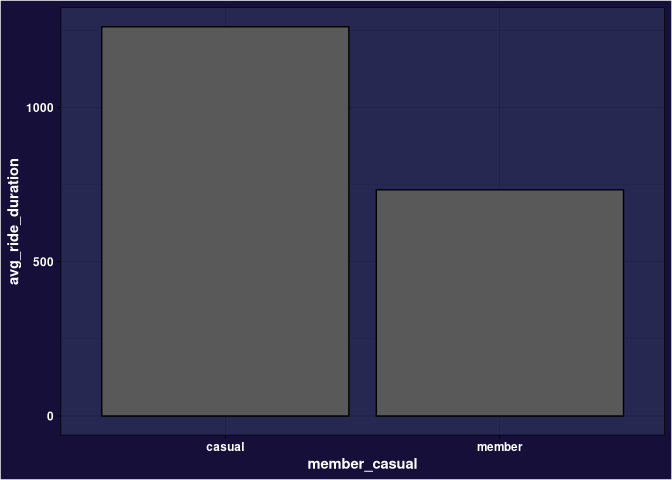
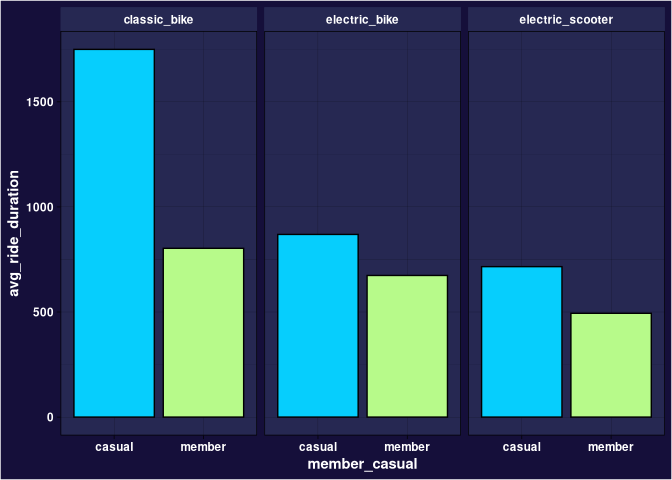
add scales to dependencies, and updare first analisys grpahs

diff --git a/README.md b/README.md
@@ -31,6 +31,7 @@ library(sf)
 library(jsonlite)
 library(geosphere)
 library(furrr)
+library(scales)
 ```
 
 Loading data from source, if not it is available locally.
@@ -303,14 +304,14 @@ stations |>
   kable()
 ```
 
-| station_id                           |      lat |       lon | name                         | capacity | short_name   | region_id | address |
-|:-------------------------------------|---------:|----------:|:-----------------------------|---------:|:-------------|:----------|:--------|
-| 1955905507044284968                  | 41.92227 | -87.80202 | Nordica Ave & Medill Ave     |       15 | 21378        | NA        | NA      |
-| 1934289361049585738                  | 41.82810 | -87.69468 | California Ave & 36th St     |       15 | 21338        | NA        | NA      |
-| a3b0fae6-a135-11e9-9cda-0a87ae2ba916 | 42.01270 | -87.66606 | Glenwood Ave & Touhy Ave     |       15 | 525          | NA        | NA      |
-| a3ad4d1b-a135-11e9-9cda-0a87ae2ba916 | 41.81409 | -87.59701 | Woodlawn Ave & Lake Park Ave |       15 | KA1503000065 | NA        | NA      |
-| a3acdae2-a135-11e9-9cda-0a87ae2ba916 | 41.78008 | -87.62975 | Wentworth Ave & 63rd St      |       11 | KA1503000025 | NA        | NA      |
-| a3a9f76a-a135-11e9-9cda-0a87ae2ba916 | 41.92153 | -87.70732 | Kedzie Ave & Palmer Ct       |       15 | 13292        | NA        | NA      |
+|      lat | name                       | short_name | station_id                           | capacity |       lon | region_id | address |
+|---------:|:---------------------------|:-----------|:-------------------------------------|---------:|----------:|:----------|:--------|
+| 41.96861 | Milwaukee Ave & Ainslie St | 24370      | 1969221526359528022                  |       19 | -87.76108 | NA        | NA      |
+| 41.79375 | Mozart St & 55th St        | 24267      | 1966307477149012058                  |       11 | -87.69472 | NA        | NA      |
+| 41.81574 | Western Ave & 43rd St      | 24245      | 1943244109954931024                  |       15 | -87.68489 | NA        | NA      |
+| 41.93852 | Nagle Ave & Belmont Ave    | 24324      | 1981488728284770592                  |       16 | -87.78735 | NA        | NA      |
+| 41.74656 | Stony Island Ave & 82nd St | 583        | a3b29fae-a135-11e9-9cda-0a87ae2ba916 |       11 | -87.58601 | NA        | NA      |
+| 41.99008 | Kedvale Ave & Peterson Ave | 24159      | 1929967657204564894                  |       15 | -87.73171 | NA        | NA      |
 
 ``` r
 stations |>
@@ -321,14 +322,14 @@ stations |>
 
 | Value      | NA’s |
 |:-----------|-----:|
-| station_id |    0 |
 | lat        |    0 |
-| lon        |    0 |
 | name       |    0 |
-| capacity   |    0 |
-| ios        |    0 |
 | android    |    0 |
+| ios        |    0 |
 | short_name |  872 |
+| station_id |    0 |
+| capacity   |    0 |
+| lon        |    0 |
 | region_id  | 1787 |
 | address    |  929 |
 
@@ -385,8 +386,8 @@ stations |>
 | a3a3a282-a135-11e9-9cda-0a87ae2ba916 | TA1306000014 | Wilton Ave & Diversey Pkwy        | -87.65270 | 41.93242 |
 | d53ae727-5265-4b8e-a6ca-2a36dc0345c4 | chargingstx2 | Wilton Ave & Diversey Pkwy\*      | -87.65270 | 41.93242 |
 | 1827484051430132402                  | NA           | Public Rack - Forest Glen Station | -87.75552 | 41.97871 |
-| 1715823821144840768                  | NA           | Public Rack - Laflin St &51st ST  | -87.66208 | 41.80135 |
 | 1677249871073777806                  | NA           | Public Rack - Laflin St & 51st St | -87.66208 | 41.80135 |
+| 1715823821144840768                  | NA           | Public Rack - Laflin St &51st ST  | -87.66208 | 41.80135 |
 | 1827474404723843690                  | NA           | Public Rack - Peterson Park       | -87.75552 | 41.97871 |
 
 Stations with repeated coordinates
@@ -401,12 +402,12 @@ stations |>
 
 | station_id          | short_name | name                   |       lon |      lat |
 |:--------------------|:-----------|:-----------------------|----------:|---------:|
-| 1978857650118994914 | 24409      | Indiana Ave & 133rd St | -87.61719 | 41.65380 |
 | 1967727360320698512 | 24211      | Western Ave & Lake St  | -87.68668 | 41.88481 |
+| 1978857650118994914 | 24409      | Indiana Ave & 133rd St | -87.61719 | 41.65380 |
 | 1984042930424753006 | 24394      | Steelworkers Park      | -87.53091 | 41.73793 |
-| 1448642188027369086 | NA         | Indiana Ave & 133rd St | -87.61705 | 41.65356 |
-| 1594046379513303720 | NA         | Western Ave & Lake St  | -87.68585 | 41.88461 |
 | 1448642188027369090 | NA         | Steelworkers Park      | -87.53107 | 41.73825 |
+| 1594046379513303720 | NA         | Western Ave & Lake St  | -87.68585 | 41.88461 |
+| 1448642188027369086 | NA         | Indiana Ave & 133rd St | -87.61705 | 41.65356 |
 
 Stations with repeated name
 
@@ -501,56 +502,94 @@ df <- df |>
       "Public Rack - Peterson Park", end_station_name
     )
   ) |>
-  mutate(ride_duration = as.integer(ended_at - started_at))
+  mutate(ride_duration = as.integer(ended_at - started_at)) |>
+  filter(ride_duration > 0) |>
+  mutate(station_fee = is.na(end_station_name))
 
 df |>
   head() |>
   kable()
 ```
 
-| ride_id          | rideable_type | started_at          | ended_at            | start_station_name                   | end_station_name            | member_casual | start_station_id                     | start_lon | start_lat | end_station_id                       |   end_lon |  end_lat | ride_duration |
-|:-----------------|:--------------|:--------------------|:--------------------|:-------------------------------------|:----------------------------|:--------------|:-------------------------------------|----------:|----------:|:-------------------------------------|----------:|---------:|--------------:|
-| 4449097279F8BBE7 | classic_bike  | 2023-10-08 10:36:26 | 2023-10-08 10:49:19 | Orleans St & Chestnut St (NEXT Apts) | Sheffield Ave & Webster Ave | member        | a3b35e21-a135-11e9-9cda-0a87ae2ba916 | -87.63754 |  41.89820 | a3aabad8-a135-11e9-9cda-0a87ae2ba916 | -87.65382 | 41.92154 |           773 |
-| 9CF060543CA7B439 | electric_bike | 2023-10-11 17:23:59 | 2023-10-11 17:36:08 | Desplaines St & Kinzie St            | Sheffield Ave & Webster Ave | member        | a3a482fb-a135-11e9-9cda-0a87ae2ba916 | -87.64445 |  41.88872 | a3aabad8-a135-11e9-9cda-0a87ae2ba916 | -87.65382 | 41.92154 |           729 |
-| 667F21F4D6BDE69C | electric_bike | 2023-10-12 07:02:33 | 2023-10-12 07:06:53 | Orleans St & Chestnut St (NEXT Apts) | Franklin St & Lake St       | member        | a3b35e21-a135-11e9-9cda-0a87ae2ba916 | -87.63754 |  41.89820 | a3a6f7a5-a135-11e9-9cda-0a87ae2ba916 | -87.63550 | 41.88584 |           260 |
-| F92714CC6B019B96 | classic_bike  | 2023-10-24 19:13:03 | 2023-10-24 19:18:29 | Desplaines St & Kinzie St            | Franklin St & Lake St       | member        | a3a482fb-a135-11e9-9cda-0a87ae2ba916 | -87.64445 |  41.88872 | a3a6f7a5-a135-11e9-9cda-0a87ae2ba916 | -87.63550 | 41.88584 |           326 |
-| 5E34BA5DE945A9CC | classic_bike  | 2023-10-09 18:19:26 | 2023-10-09 18:30:56 | Desplaines St & Kinzie St            | Franklin St & Lake St       | member        | a3a482fb-a135-11e9-9cda-0a87ae2ba916 | -87.64445 |  41.88872 | a3a6f7a5-a135-11e9-9cda-0a87ae2ba916 | -87.63550 | 41.88584 |           690 |
-| F7D7420AFAC53CD9 | electric_bike | 2023-10-04 17:10:59 | 2023-10-04 17:25:21 | Orleans St & Chestnut St (NEXT Apts) | Sheffield Ave & Webster Ave | member        | a3b35e21-a135-11e9-9cda-0a87ae2ba916 | -87.63754 |  41.89820 | a3aabad8-a135-11e9-9cda-0a87ae2ba916 | -87.65382 | 41.92154 |           862 |
+| ride_id          | rideable_type | started_at          | ended_at            | start_station_name                   | end_station_name            | member_casual | start_station_id                     | start_lon | start_lat | end_station_id                       |   end_lon |  end_lat | ride_duration | station_fee |
+|:-----------------|:--------------|:--------------------|:--------------------|:-------------------------------------|:----------------------------|:--------------|:-------------------------------------|----------:|----------:|:-------------------------------------|----------:|---------:|--------------:|:------------|
+| 4449097279F8BBE7 | classic_bike  | 2023-10-08 10:36:26 | 2023-10-08 10:49:19 | Orleans St & Chestnut St (NEXT Apts) | Sheffield Ave & Webster Ave | member        | a3b35e21-a135-11e9-9cda-0a87ae2ba916 | -87.63754 |  41.89820 | a3aabad8-a135-11e9-9cda-0a87ae2ba916 | -87.65382 | 41.92154 |           773 | FALSE       |
+| 9CF060543CA7B439 | electric_bike | 2023-10-11 17:23:59 | 2023-10-11 17:36:08 | Desplaines St & Kinzie St            | Sheffield Ave & Webster Ave | member        | a3a482fb-a135-11e9-9cda-0a87ae2ba916 | -87.64445 |  41.88872 | a3aabad8-a135-11e9-9cda-0a87ae2ba916 | -87.65382 | 41.92154 |           729 | FALSE       |
+| 667F21F4D6BDE69C | electric_bike | 2023-10-12 07:02:33 | 2023-10-12 07:06:53 | Orleans St & Chestnut St (NEXT Apts) | Franklin St & Lake St       | member        | a3b35e21-a135-11e9-9cda-0a87ae2ba916 | -87.63754 |  41.89820 | a3a6f7a5-a135-11e9-9cda-0a87ae2ba916 | -87.63550 | 41.88584 |           260 | FALSE       |
+| F92714CC6B019B96 | classic_bike  | 2023-10-24 19:13:03 | 2023-10-24 19:18:29 | Desplaines St & Kinzie St            | Franklin St & Lake St       | member        | a3a482fb-a135-11e9-9cda-0a87ae2ba916 | -87.64445 |  41.88872 | a3a6f7a5-a135-11e9-9cda-0a87ae2ba916 | -87.63550 | 41.88584 |           326 | FALSE       |
+| 5E34BA5DE945A9CC | classic_bike  | 2023-10-09 18:19:26 | 2023-10-09 18:30:56 | Desplaines St & Kinzie St            | Franklin St & Lake St       | member        | a3a482fb-a135-11e9-9cda-0a87ae2ba916 | -87.64445 |  41.88872 | a3a6f7a5-a135-11e9-9cda-0a87ae2ba916 | -87.63550 | 41.88584 |           690 | FALSE       |
+| F7D7420AFAC53CD9 | electric_bike | 2023-10-04 17:10:59 | 2023-10-04 17:25:21 | Orleans St & Chestnut St (NEXT Apts) | Sheffield Ave & Webster Ave | member        | a3b35e21-a135-11e9-9cda-0a87ae2ba916 | -87.63754 |  41.89820 | a3aabad8-a135-11e9-9cda-0a87ae2ba916 | -87.65382 | 41.92154 |           862 | FALSE       |
 
 ``` r
 kable(summary(df))
 ```
 
-|     | ride_id          | rideable_type    | started_at                     | ended_at                       | start_station_name | end_station_name | member_casual    | start_station_id | start_lon     | start_lat     | end_station_id   | end_lon       | end_lat       | ride_duration |
-|:----|:-----------------|:-----------------|:-------------------------------|:-------------------------------|:-------------------|:-----------------|:-----------------|:-----------------|:--------------|:--------------|:-----------------|:--------------|:--------------|:--------------|
-|     | Length:5847103   | Length:5847103   | Min. :2023-10-01 00:00:05.00   | Min. :2023-10-01 00:02:02.00   | Length:5847103     | Length:5847103   | Length:5847103   | Length:5847103   | Min. :-87.8   | Min. :41.6    | Length:5847103   | Min. :-87.8   | Min. :41.6    | Min. :-999391 |
-|     | Class :character | Class :character | 1st Qu.:2024-02-27 02:45:42.00 | 1st Qu.:2024-02-27 03:43:53.50 | Class :character   | Class :character | Class :character | Class :character | 1st Qu.:-87.7 | 1st Qu.:41.9  | Class :character | 1st Qu.:-87.7 | 1st Qu.:41.9  | 1st Qu.: 331  |
-|     | Mode :character  | Mode :character  | Median :2024-06-06 12:51:30.67 | Median :2024-06-06 13:09:38.19 | Mode :character    | Mode :character  | Mode :character  | Mode :character  | Median :-87.6 | Median :41.9  | Mode :character  | Median :-87.6 | Median :41.9  | Median : 580  |
-|     |                  |                  | Mean :2024-05-08 12:54:21.68   | Mean :2024-05-08 13:09:46.89   |                    |                  |                  |                  | Mean :-87.6   | Mean :41.9    |                  | Mean :-87.6   | Mean :41.9    | Mean : 925    |
-|     |                  |                  | 3rd Qu.:2024-08-05 11:40:13.60 | 3rd Qu.:2024-08-05 11:57:43.35 |                    |                  |                  |                  | 3rd Qu.:-87.6 | 3rd Qu.:41.9  |                  | 3rd Qu.:-87.6 | 3rd Qu.:41.9  | 3rd Qu.: 1028 |
-|     |                  |                  | Max. :2024-09-30 23:54:05.54   | Max. :2024-09-30 23:59:52.55   |                    |                  |                  |                  | Max. :-87.5   | Max. :42.1    |                  | Max. :-87.5   | Max. :42.1    | Max. : 90562  |
-|     |                  |                  |                                |                                |                    |                  |                  |                  | NA’s :1071544 | NA’s :1071544 |                  | NA’s :1098661 | NA’s :1098661 |               |
+|     | ride_id          | rideable_type    | started_at                     | ended_at                       | start_station_name | end_station_name | member_casual    | start_station_id | start_lon     | start_lat     | end_station_id   | end_lon       | end_lat       | ride_duration   | station_fee   |
+|:----|:-----------------|:-----------------|:-------------------------------|:-------------------------------|:-------------------|:-----------------|:-----------------|:-----------------|:--------------|:--------------|:-----------------|:--------------|:--------------|:----------------|:--------------|
+|     | Length:5845369   | Length:5845369   | Min. :2023-10-01 00:00:05.00   | Min. :2023-10-01 00:02:02.00   | Length:5845369     | Length:5845369   | Length:5845369   | Length:5845369   | Min. :-87.8   | Min. :41.6    | Length:5845369   | Min. :-87.8   | Min. :41.6    | Min. : 1.0      | Mode :logical |
+|     | Class :character | Class :character | 1st Qu.:2024-02-27 04:55:42.00 | 1st Qu.:2024-02-27 05:16:32.00 | Class :character   | Class :character | Class :character | Class :character | 1st Qu.:-87.7 | 1st Qu.:41.9  | Class :character | 1st Qu.:-87.7 | 1st Qu.:41.9  | 1st Qu.: 331.0  | FALSE:4762233 |
+|     | Mode :character  | Mode :character  | Median :2024-06-06 13:01:48.50 | Median :2024-06-06 13:21:01.54 | Mode :character    | Mode :character  | Mode :character  | Mode :character  | Median :-87.6 | Median :41.9  | Mode :character  | Median :-87.6 | Median :41.9  | Median : 580.0  | TRUE :1083136 |
+|     |                  |                  | Mean :2024-05-08 13:02:16.15   | Mean :2024-05-08 13:17:42.60   |                    |                  |                  |                  | Mean :-87.6   | Mean :41.9    |                  | Mean :-87.6   | Mean :41.9    | Mean : 926.2    |               |
+|     |                  |                  | 3rd Qu.:2024-08-05 11:48:57.01 | 3rd Qu.:2024-08-05 12:06:05.80 |                    |                  |                  |                  | 3rd Qu.:-87.6 | 3rd Qu.:41.9  |                  | 3rd Qu.:-87.6 | 3rd Qu.:41.9  | 3rd Qu.: 1028.0 |               |
+|     |                  |                  | Max. :2024-09-30 23:54:05.54   | Max. :2024-09-30 23:59:52.55   |                    |                  |                  |                  | Max. :-87.5   | Max. :42.1    |                  | Max. :-87.5   | Max. :42.1    | Max. :90562.0   |               |
+|     |                  |                  |                                |                                |                    |                  |                  |                  | NA’s :1070550 | NA’s :1070550 |                  | NA’s :1097434 | NA’s :1097434 |                 |               |
 
 We have now finished our data cleaning process. Now that our data is
 ready, let’s continue with our analysis.
 
 ## Data analysis
 
+first we will take a look at the average time of usage of the service
+with different types of bicycles between members and casual users
+
 ``` r
 df |>
- select(member_casual, ride_duration) |>
- group_by(member_casual) |>
- summarise(avg_ride_duration = mean(ride_duration), count = n()) |>
-  ggplot() + aes(x=member_casual, y = avg_ride_duration) + geom_col(color = "#000000") + global_theme()
+  select(member_casual, rideable_type, ride_duration) |>
+  group_by(member_casual, rideable_type) |>
+  summarise(avg_ride_duration = mean(ride_duration)) |>
+  ggplot() +
+  aes(x = member_casual, y = avg_ride_duration, fill = member_casual) +
+  geom_col(color = "#000000") +
+  facet_wrap(~rideable_type) +
+  global_theme() +
+  scale_fill_manual(values = c("#06CEFD", "#B7FA8A")) +
+  theme(legend.position = "none")
 ```
 
 ![](README_files/figure-commonmark/First%20analysis-1.png)
 
+We can see that casual users tend to use the service for longer periods,
+let’s take a look at the distribution of usage
+
 ``` r
 df |>
-  filter(ride_duration < 0) |>
-  ggplot() + aes(x = mday(started_at)) + geom_histogram(binwidth = 1, color = "#000000", fill = "#06CEFD") + global_theme() +
-  facet_wrap(vars(month(started_at, label = TRUE, abbr = FALSE))) 
+  select(member_casual, rideable_type, ride_duration) |>
+  group_by(member_casual, rideable_type) |>
+  summarize(mean_duration = round(mean(ride_duration), 2)) |>
+  ggplot() +
+  geom_freqpoly(
+    data = df |> select(member_casual, rideable_type, ride_duration),
+    aes(x = ride_duration, color = member_casual)
+  ) +
+  geom_vline(aes(xintercept = mean_duration, color = member_casual)) +
+  geom_label(
+    aes(x = mean_duration, label = mean_duration, fill = member_casual),
+    y = seq(50000, 300000, 50000)
+  ) +
+  scale_x_log10(label = label_number()) +
+  scale_y_continuous(label = label_number()) +
+  facet_wrap(~rideable_type) +
+  global_theme() +
+  labs(
+    y = "Number of rides",
+    x = "time interval",
+    title = "Distribution of ride duration per customer type and vehicle",
+    subtitle = "Data from Oct-2023 to Oct-2024",
+    caption = "logarithmic scale for better visuals"
+  ) +
+  scale_color_manual(values = c("#06CEFD", "#B7FA8A")) +
+  scale_fill_manual(values = c("#06CEFD", "#B7FA8A")) +
+  theme(legend.position = "none")
 ```
 
 ![](README_files/figure-commonmark/unnamed-chunk-13-1.png)
